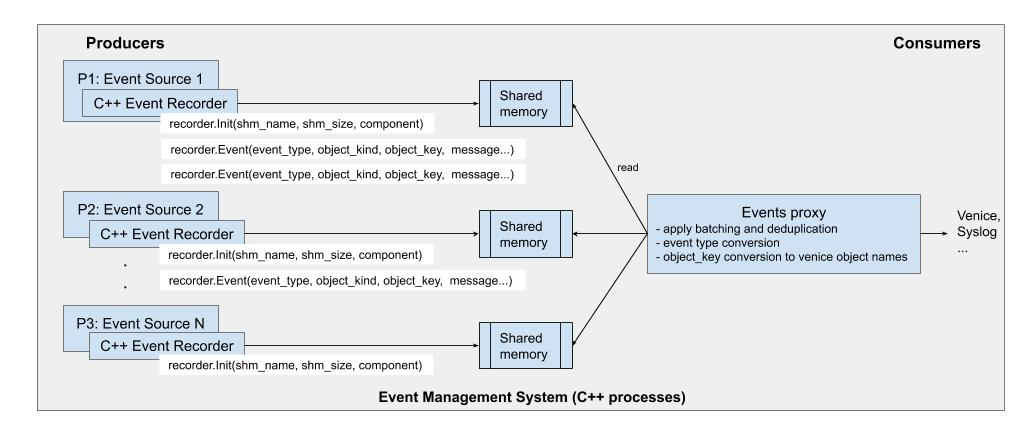
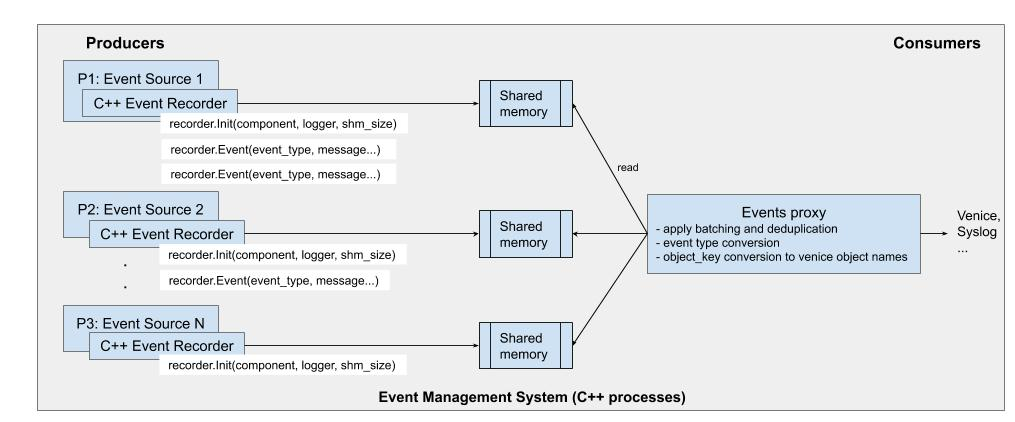
Update sw/venice/utils/events/README.md (#21869)

diff --git a/venice/utils/events/README.md b/venice/utils/events/README.md
@@ -1,26 +1,76 @@
 # Events Management System
 This document captures how different events management components are designed and how to use it to record events.
 
+[High-Level Architecture](https://docs.google.com/document/d/10X8YgG6tVaHRTfvHnTn9S6MORo5hNJ0k2AcD-Eomh18)
+
 Table of Contents
 -----------------
-* [Go Clients (Venice components + Agents)](#go-clients-venice-components--agents)
-	* [Design components](#design-components)
-		* [Event Source](#event-source)
-		* [Event Recorder](#event-recorder)
-		* [Event Proxy](#event-proxy)
-	* [Venice components](#venice-components)
-		* [How to add/update/delete event types?](#how-to-addupdatedelete-event-types)
-		* [How to record events?](#how-to-record-events)
-	* [Agents](#agents)
-		* [How to add/update/delete event types?](#how-to-addupdatedelete-event-types-1)
-		* [How to record events?](#how-to-record-events-1)
-* [C++ Clients (Platform components + HAL/FTE)](#c-clients-platform-components--halfte)
-	* [Design components](#design-components)
-		* [Event Source](#event-source-1)
-		* [Event Recorder](#event-recorder-1)
-		* [Event Proxy](#event-proxy-1)
-	* [How to add/update/delete event types?](#how-to-addupdatedelete-event-types-2)
-	* [How to record events from NAPLES platform components and HAL/FTE?](#how-to-record-events-from-naples-platform-components-and-halfte)
+  * [Sample Event](#sample-event)
+  * [Event Types](#event-types)
+     * [How to add/update/delete event types category?](#how-to-addupdatedelete-event-types-category)
+     * [How to add/update/delete event types?](#how-to-addupdatedelete-event-types)
+  * [Go Clients (Venice components + Agents)](#go-clients-venice-components--agents)
+     * [Design components](#design-components)
+        * [Event Source](#event-source)
+        * [Event Recorder](#event-recorder)
+        * [Event Proxy](#event-proxy)
+     * [How to record events from venice components?](#how-to-record-events-from-venice-components)
+     * [How to record events from NAPLES agents?](#how-to-record-events-from-naples-agents)
+  * [C++ Clients (Platform components + HAL/FTE)](#c-clients-platform-components--halfte)
+     * [Design components](#design-components-1)
+        * [Event Source](#event-source-1)
+        * [Event Recorder](#event-recorder-1)
+        * [Event Proxy](#event-proxy-1)
+     * [How to record events from NAPLES platform components and HAL/FTE?](#how-to-record-events-from-naples-platform-components-and-halfte)
+
+## Sample Event
+```
+{
+    "kind": "Event",
+    "meta": {
+        "name": "99607d4c-15a2-495b-b37a-41a0fb098134",
+        "tenant": "default",
+        "namespace": "default",
+        "generation-id": "",
+        "uuid": "99607d4c-15a2-495b-b37a-41a0fb098134",
+        "labels": {
+            "_category": "Monitoring"
+        },
+        "creation-time": "2020-04-06T15:42:13.262814429Z",
+        "mod-time": "2020-04-06T15:42:13.262814429Z",
+        "self-link": "/events/v1/events/99607d4c-15a2-495b-b37a-41a0fb098134"
+    },
+    "severity": "warn",
+    "type": "DSC_NOT_ADMITTED",
+    "message": "DSC for host [sim_host1035] not admitted.",
+    "category": "cluster",
+    "object-ref": {
+        "kind": "Node",
+        "name": "20.0.1.61"
+    },
+    "source": {
+        "component": "pen-npm",
+        "node-name": "20.0.1.61"
+    },
+    "count": 1
+}
+
+```
+
+## Event Types
+All the event types are maintained in `sw/events/protos/eventtypes.proto` along with it's category and severity. When an event is recorded, category and severity will be automatically populated based on the event type. Events types are compiled for both go and c++ clients.
+
+### How to add/update/delete event types category?
+
+Update `Category` enum in `/sw/events/protos/attributes.proto` and compile the protos using `make` from both `/sw/events` and `/sw/nic` directories. Also, make sure to update `Category_normal` map in `sw/events/generated/eventattrs/attributes.pb.ext.go`. (TODO: @Yuva, auto-generate this)
+
+### How to add/update/delete event types?
+
+Update `EventTypes` enum in `/sw/events/protos/eventtypes.proto` and compile the proto using following commands:
+
+1. `make` from `/sw/events`
+2. `make` from `/sw/nic`
+3. `make ui-autogen` from `/sw`
 
 ## Go Clients (Venice components + Agents)
 
@@ -40,28 +90,14 @@ Recorder creates the event with given information (event type, message and refer
 #### Event Proxy
 Proxy server receives events from all different sources and persists it. The call from the recorder terminates here. Further processing and delivery of the events are asynchronous. Events proxy applies deduplication and distributes the received events using the dispatcher library. Events proxy encapsulates the dispatcher and exporters.
 
-1. Event Dispatcher is a library used by the proxy for deduplication and distribution.Events are deduped for a given dedup interval. Any event that reoccurs after the interval will be consisdered a new event. Events are distributed to all registered exporters in intervals (batch interval). Venice will be the default exporter in MANAGED mode.
+1. Event Dispatcher is a library used by the proxy for deduplication and distribution.Events are deduped for a given dedup interval. Any event that reoccurs after the interval will be considered a new event. Events are distributed to all registered exporters in intervals (batch interval). Venice will be the default exporter in MANAGED mode.
 
 2. Exporters (venice, syslog, etc.) will get the events from dispatcher. And it is responsible for writing it to their respective destination (venice, syslog).
 
 Now, let us see how to use this service to record events. To record an event, the respective event type must exist in the system.
 
-### Venice components
-
-#### How to add/update/delete event types category?
-
-Update `Category` enum in `/sw/events/protos/attributes.proto` and compile the protos using `make` from both `/sw/events` and `/sw/nic` directories. Also, make sure to update `Category_normal` map in `sw/events/generated/eventattrs/attributes.pb.ext.go`. (TODO: @Yuva, auto-generate this)
-
-#### How to add/update/delete event types?
-
-All the event types are managed in a single file `/sw/events/protos/eventtypes.proto` under the enum named `EventTypes`. Update the enum and compile the protos using:
-
-1. `make` from `/sw/events`
-2. `make` from `/sw/nic`
-3. `make ui-autogen` from `/sw`
-
-#### How to record events?
-1. All the event sources needs to provide source information (i.e. name of the component generating the event). This information will be used when the event is recorded.
+### How to record events from venice components?
+1. All the event sources need to provide source information (i.e. name of the component generating the event). This information will be used when the event is recorded.
 
 	***venice/cmd/cmd.go***
 
@@ -87,14 +123,8 @@ All the event types are managed in a single file `/sw/events/protos/eventtypes.p
 
 	- Event source(component) will be inherited from the underlying recorder.
 
-### Agents
-Upon recieving the status update from HAL/FTE, the agents are responsible for recording the appropriate events. Agents can also generate it's own events.
-
-#### How to add/update/delete event types?
-[Same as above](#how-to-addupdatedelete-event-types)
-
-#### How to record events?
-Same as the venice component.
+### How to record events from NAPLES agents?
+Upon receiving the status update from HAL/FTE, the agents are responsible for recording the appropriate events. Agents can also generate it's own events.
 
 1. Create events recorder.
 
@@ -117,10 +147,9 @@ Same as the venice component.
 	import "github.com/pensando/sw/events/generated/eventtypes"
 	import "github.com/pensando/sw/venice/utils/events/recorder"
 	...
-	recorder.Event(eventtypes.NIC_ADMITTED, fmt.Sprintf("Smart NIC %s addmitted to the cluster", nic.GetName()), nil)
+	recorder.Event(eventtypes.NIC_ADMITTED, fmt.Sprintf("Smart NIC %s admitted to the cluster", nic.GetName()), nil)
 	...
 	```
-
 
 ## C++ Clients (Platform components + HAL/FTE)
 
@@ -132,19 +161,16 @@ Same as the venice component.
 Any component (c++ process) in the system that generates an event.
 
 * *Datapath components* - HAL/FTE, etc.
-* *Platform components* - Nicmgr, Linkmgmr, etc.
+* *Platform components* - Nicmgr, Linkmgr, etc.
 
 #### Event Recorder
 
-Recorder init() initializes a shared memory with the given name and size.
+Recorder init() initializes a shared memory with the given component name and size.
 
-Recorder event(...) records the event with given information (event type, message, object kind and key) and writes it to the shared memory. Any incoming events will be discarded once the shared memory is full.
+Recorder event(...) records the event with given information (event type, message) and writes it to the shared memory. Any incoming events will be discarded once the shared memory is full.
 
 #### Event Proxy
-Proxy will read the events from shared memory, massages the event (key conversion to venice object name), presists it in a file and distributes to venice/syslog. Events proxy applies deduplication and baching before distribution.
-
-### How to add/update/delete event types?
-[Same as above](#how-to-addupdatedelete-event-types)
+Proxy will read the events from shared memory, massages the event (key conversion to venice object name), persists it in a file and  distributes it to venice/syslog. Events proxy applies deduplication and batching before distribution.
 
 ### How to record events from NAPLES platform components and HAL/FTE?
 
